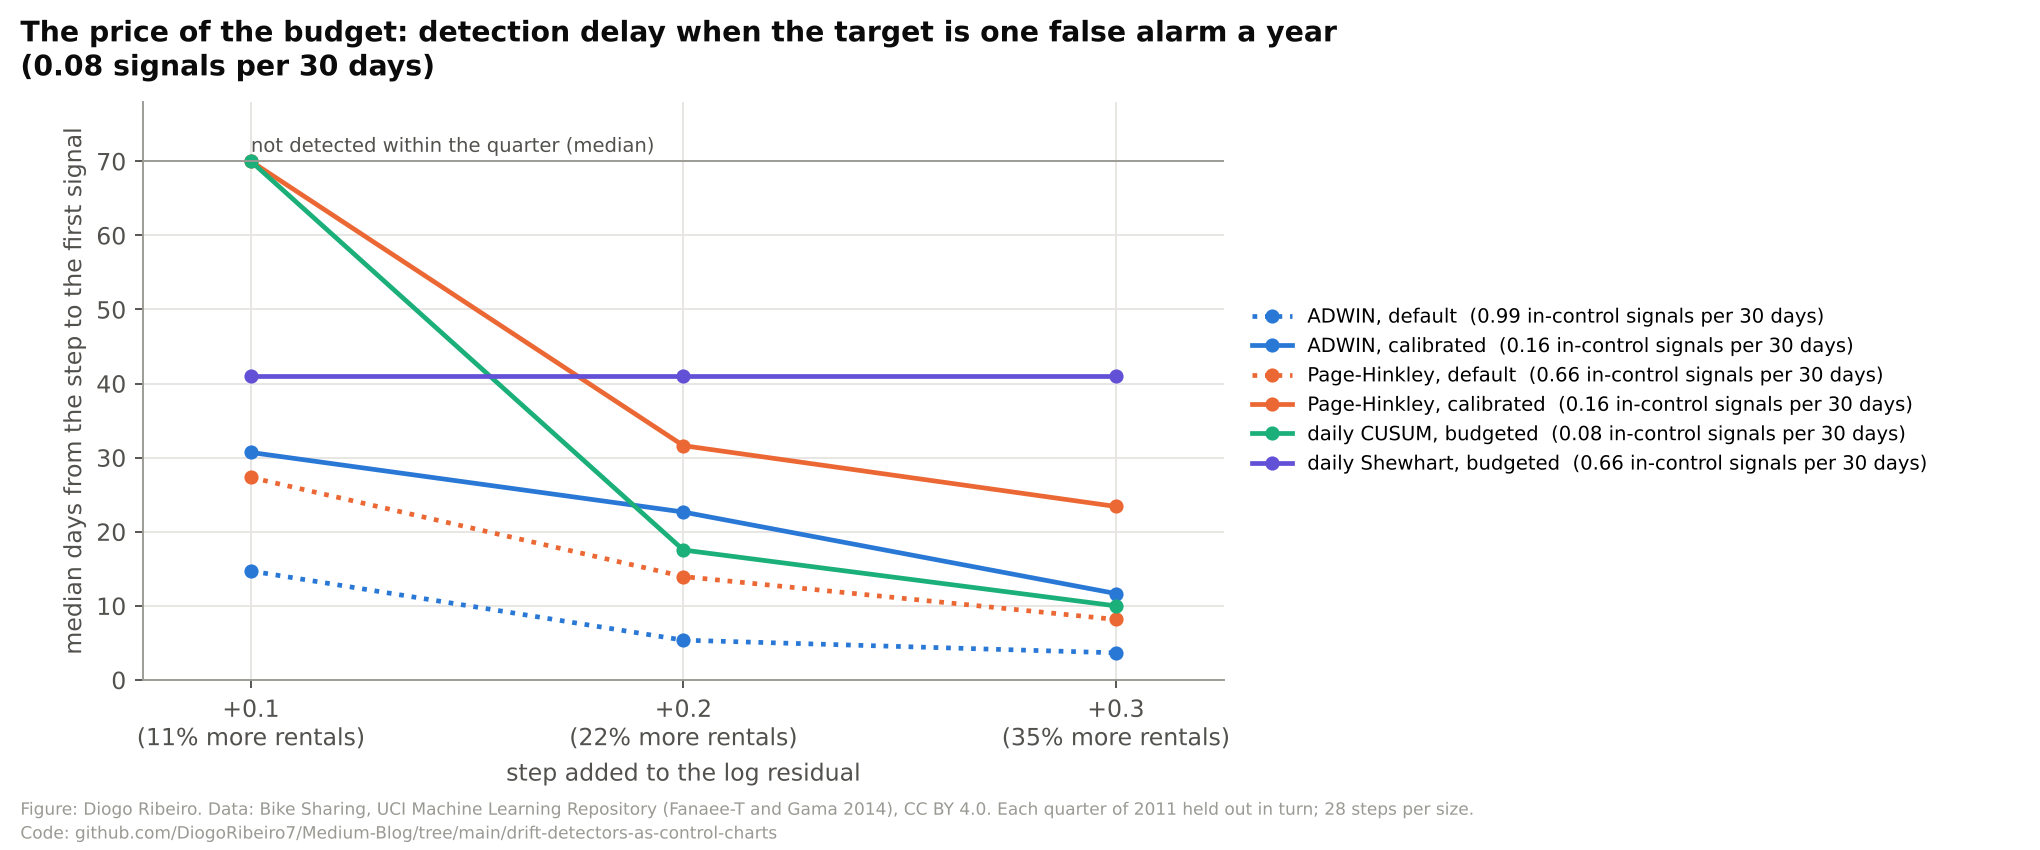
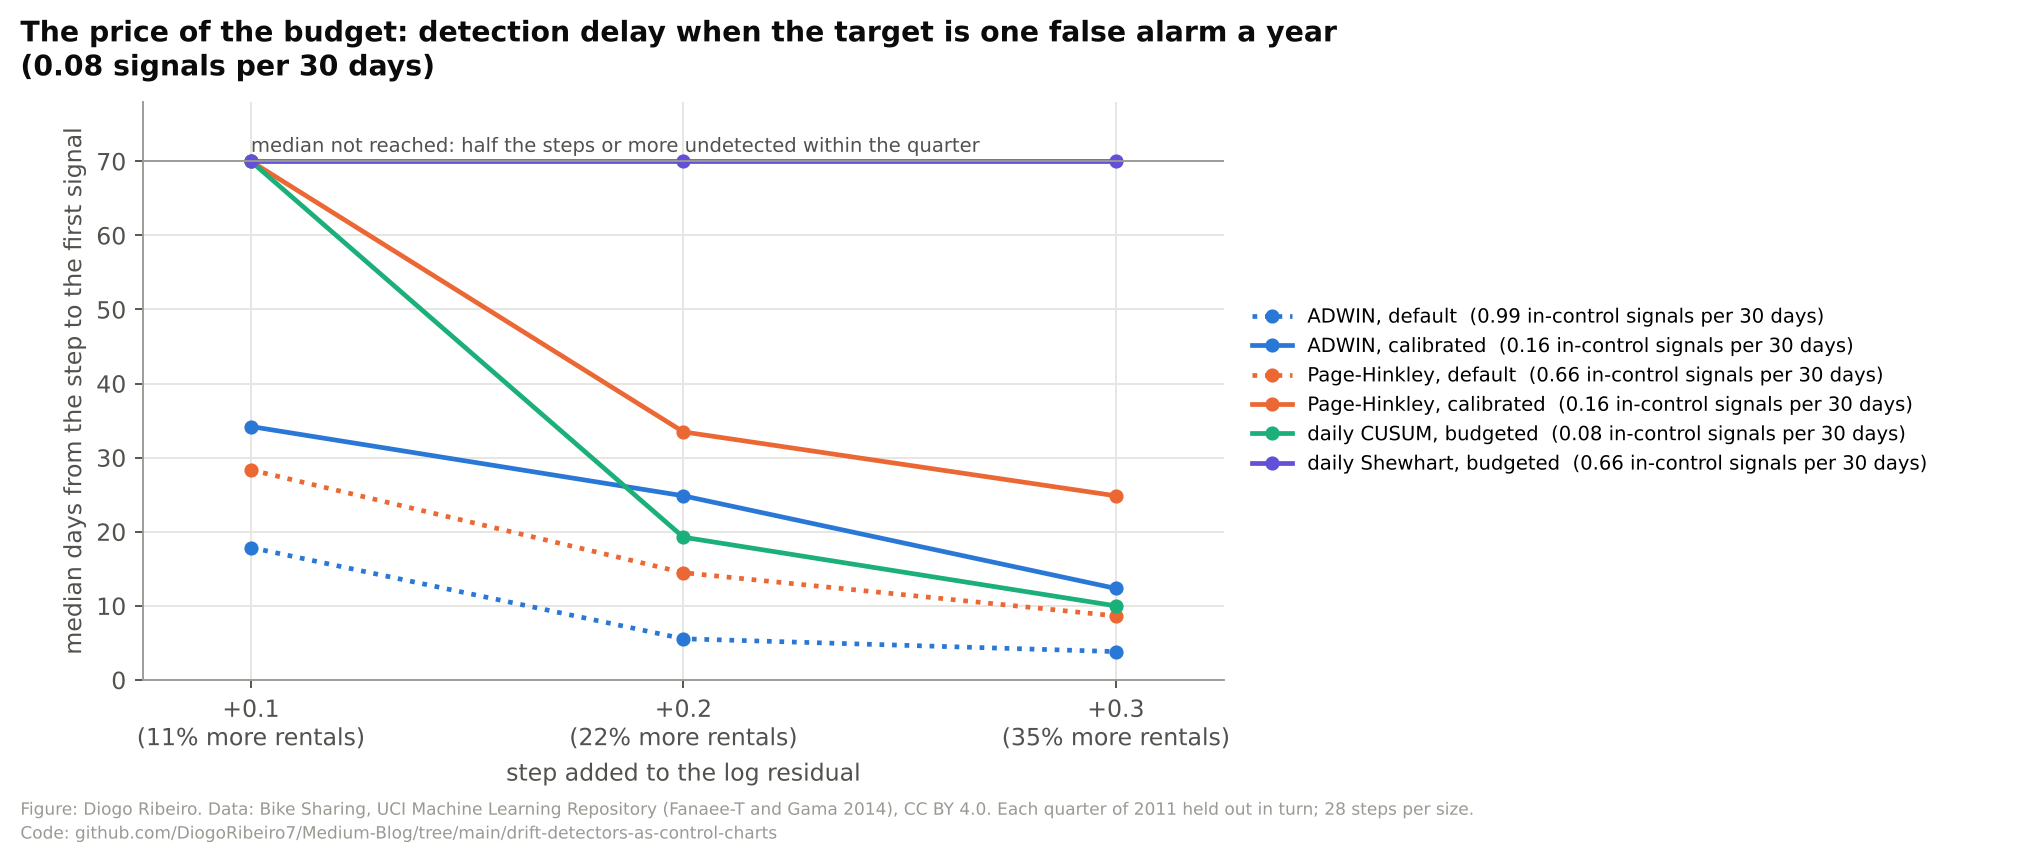
drift-detectors-as-control-charts: monthly inputs under Evidently's KS rule, sides of the first signal, printed reference values

diff --git a/drift-detectors-as-control-charts/drift_numbers.py b/drift-detectors-as-control-charts/drift_numbers.py
@@ -218,6 +218,10 @@ dd = binary.DDM()
 print(f"river DDM: warm_start={dd.warm_start}, warning_threshold={dd.warning_threshold}, "
       f"drift_threshold={dd.drift_threshold}")
 
+print(f"reference points: a 3-sigma Shewhart chart with known parameters has in-control ARL "
+      f"{1 / (2 * stats.norm.sf(3)):.1f}; a two-sided CUSUM with k=0.5 has in-control ARL {dt.cusum_arl(0.5, 4):.0f} "
+      f"at h=4 and {dt.cusum_arl(0.5, 5):.0f} at h=5 (Markov chain, Brook and Evans 1972)")
+
 # Check: river's upper Page-Hinkley signal times equal those of the CUSUM written in drifttools.
 x = 1.0 * RNG["ph_scale"].standard_normal(3000) + np.r_[np.zeros(1500), 0.8 * np.ones(1500)]
 stat = dt.page_hinkley_statistic(x)
@@ -425,6 +429,11 @@ print(f"  daily mean residual, 2011: sd {d11.std(ddof=1):.3f} against {r.std(ddo
       f"lag-1 autocorrelation {acf(d11.values, 1):.3f}; skewness {stats.skew(d11.values):.2f}, excess kurtosis "
       f"{stats.kurtosis(d11.values):.2f}")
 print("  most negative days:", ", ".join(f"{k.date()} {v:+.2f}" for k, v in d11.sort_values().head(6).items()))
+for day in ["2011-01-01", "2011-01-27", "2011-03-10", "2011-03-21", "2011-10-29", "2011-11-24", "2011-12-07",
+            "2011-12-25", "2011-11-27"]:
+    g = y11[y11.dteday == day]
+    print(f"    {day} ({pd.Timestamp(day).day_name()}): {len(g)} hours recorded, light rain or snow or worse "
+          f"(weather category 3-4) in {int((g.weathersit >= 3).sum())}, holiday flag {int(g.holiday.iloc[0])}")
 
 # Inputs: each 2011 day against the 2011 reference, Evidently's default for > 1,000 reference rows.
 flag = {c: [] for c in WEATHER}
@@ -439,15 +448,20 @@ for _, g in y11.groupby((y11.dteday - y11.dteday.min()).dt.days // 7):
     for c in WEATHER:
         wk[c].append(dt.wasserstein_normed(y11[c].values, g[c].values) >= 0.1)
 print("  the same with weeks as the current window: " + ", ".join(f"{c} {np.mean(wk[c]):.3f}" for c in WEATHER))
-mm_w = []
+ks_cols, ref_rows = [], []
 for m_ in range(1, 13):
     a_ = y11[y11.month == m_]
     b_ = y12[y12.month == m_]
-    mm_w.append(np.mean([dt.wasserstein_normed(a_[c].values, b_[c].values) for c in WEATHER]))
-print("  each 2012 month against the same 2011 month, mean normed Wasserstein over the four inputs:",
-      " ".join(f"{v:.2f}" for v in mm_w))
-print(f"  months of 2012 whose inputs pass against the same month of 2011 (mean score < 0.1): "
-      f"{sum(v < 0.1 for v in mm_w)} of 12")
+    ref_rows.append(len(a_))
+    ks_cols.append(sum(stats.ks_2samp(a_[c].values, b_[c].values).pvalue <= 0.05 for c in WEATHER))
+print(f"  each 2012 month against the same 2011 month ({min(ref_rows)}-{max(ref_rows)} reference rows, so "
+      f"Evidently's default is KS at p <= 0.05): columns flagged of 4, January to December: "
+      + " ".join(str(v) for v in ks_cols))
+print(f"  months with dataset drift (at least half the columns flagged): {sum(v >= 2 for v in ks_cols)} of 12")
+tC = y11.groupby("month").temp.mean() * 47 - 8
+tC12 = y12.groupby("month").temp.mean() * 47 - 8
+print(f"  mean temperature in March (dataset scaling -8 to 39 C): 2011 {tC[3]:.1f} C, 2012 {tC12[3]:.1f} C; "
+      f"July 2011 {tC[7]:.1f} C, 2012 {tC12[7]:.1f} C")
 
 # Stream detectors with their defaults on the 2011 hourly residual stream.
 days11 = y11.dteday.nunique()
@@ -518,14 +532,16 @@ def budgeted_design(d_phase1: np.ndarray, consecutive: np.ndarray, rng, B: int =
             "h_p": h_p, "h_np": h_np}
 
 
-def monitor(design, d_prev: float, d_new: np.ndarray, which: str):
-    """Indices of the monitored days that signal, on the standardized one-step residuals of the AR(1)."""
+def monitor(design, d_prev: float, d_new: np.ndarray, which: str, sides: bool = False):
+    """Indices of the monitored days that signal, on the standardized one-step residuals of the AR(1);
+    with sides=True, (index, +1 or -1) pairs."""
     full = np.r_[d_prev, d_new]
     e = (full[1:] - design["mu"]) - design["phi"] * (full[:-1] - design["mu"])
     z = (e - design["em"]) / design["es"]
     if which == "shewhart":
-        return [i for i, v in enumerate(z) if abs(v) > design["k"]]
-    return dt.cusum_alarms(z, 0.5, design["h_np" if which == "cusum_np" else "h_p"])
+        out = [(i, 1 if v > 0 else -1) for i, v in enumerate(z) if abs(v) > design["k"]]
+        return out if sides else [i for i, _ in out]
+    return dt.cusum_alarms(z, 0.5, design["h_np" if which == "cusum_np" else "h_p"], sides=sides)
 
 
 ADWIN_GRID = [2e-3, 2e-4, 2e-5, 2e-6, 2e-8, 2e-10, 2e-12, 2e-15]
@@ -561,7 +577,15 @@ print(f"  Phase I all of 2011 ({des11['m']} one-step residuals of an AR(1) on th
       f"{des11['h_p']:.2f}, nonparametric {des11['h_np']:.2f} (known-parameter value "
       f"{dt.cusum_h_for_arl(0.5, 1 / DAY_BUDGET):.2f})")
 _, _, e11 = whiten(dvals, consec_all)
-print(f"  one-step residuals: skewness {stats.skew(e11):.2f}, excess kurtosis {stats.kurtosis(e11):.2f}")
+print(f"  one-step residuals: skewness {stats.skew(e11):.2f}, excess kurtosis {stats.kurtosis(e11):.2f}; "
+      f"standard error of phi about {math.sqrt((1 - des11['phi'] ** 2) / des11['m']):.3f}")
+print(f"  a two-sided distribution-free threshold (the minimum and maximum of the reference) needs "
+      f"{sb.min_calibration_size(DAY_BUDGET, EPS, rank=2)} in-control days for the same budget")
+for dlt in [0.1, 0.2, 0.3, float(mres12.values[0])]:
+    w_ = (1 - des11["phi"]) * dlt / des11["es"]
+    print(f"  a sustained step of {dlt:.2f} in the daily mean is {w_:.2f} sd of the one-step residual after its first "
+          f"day; the Shewhart chart then signals on a given day with probability "
+          f"{stats.norm.sf(des11['k'] - w_):.3f}; a CUSUM aimed at it would use k = {w_ / 2:.2f}")
 cal11 = {k: calibrate(k, days_list, rng) for k in ["ADWIN", "Page-Hinkley"]}
 print(f"  stream detectors calibrated to the budget on block surrogates of all of 2011: ADWIN delta "
       f"{cal11['ADWIN'][0]:g} (surrogate rate {cal11['ADWIN'][1]:.5f} a day), Page-Hinkley threshold "
@@ -576,6 +600,7 @@ starts = [14, 21, 28, 35, 42, 49, 56]
 METHODS = ["ADWIN, default", "Page-Hinkley, default", "ADWIN, calibrated", "Page-Hinkley, calibrated",
            "Shewhart", "CUSUM"]
 delays = {m: {s: [] for s in shifts} for m in METHODS}
+low_first = {m: {s: [] for s in shifts} for m in METHODS}
 incontrol = {m: [] for m in METHODS}
 qinfo = []
 for q_ in range(4):
@@ -597,25 +622,27 @@ for q_ in range(4):
         return pd.Series(xs).groupby(hq.dteday.values).mean().values
 
     def signals(name, xs):
-        """Signal times in hours from the start of the quarter (daily charts: end of the day)."""
+        """(signal time in hours from the start of the quarter, side) pairs; daily charts signal at the end
+        of the day and report the side (+1 high, -1 low); stream detectors do not report it (0)."""
         if name in makers:
-            return [i + 1 for i in dt.run_detector(makers[name](), xs)]
+            return [(i + 1, 0) for i in dt.run_detector(makers[name](), xs)]
         which = "shewhart" if name == "Shewhart" else "cusum_np"
         hours_end = np.cumsum(pd.Series(xs).groupby(hq.dteday.values).size().values)
-        return [int(hours_end[i]) for i in monitor(des, prev, daily_of(xs), which)]
+        return [(int(hours_end[i]), sd_) for i, sd_ in monitor(des, prev, daily_of(xs), which, sides=True)]
 
     base = hq.r.values
     for name in METHODS:
         sig = signals(name, base)
-        incontrol[name] += [str(pd.Timestamp(hq.dteday.values[min(t, len(base)) - 1]).date()) for t in sig]
+        incontrol[name] += [str(pd.Timestamp(hq.dteday.values[min(t, len(base)) - 1]).date()) for t, _ in sig]
     for s_day in starts:
         t0 = int(np.argmax(hq.dteday.values == qdays[s_day]))
         for dlt in shifts:
             xs = base.copy()
             xs[t0:] += dlt
             for name in METHODS:
-                after_ = [t for t in signals(name, xs) if t > t0]
-                delays[name][dlt].append((after_[0] - t0) / 24 if after_ else math.inf)
+                after_ = [(t, sd_) for t, sd_ in signals(name, xs) if t > t0]
+                delays[name][dlt].append((after_[0][0] - t0) / 24 if after_ else math.inf)
+                low_first[name][dlt].append(bool(after_) and after_[0][1] < 0)
 print("Leave one quarter out: Phase I the other three quarters of 2011 for the daily charts and for the "
       "calibration of the stream detectors; Shewhart k " + ", ".join(f"{q[0]:.3f}" for q in qinfo)
       + "; CUSUM h (nonparametric) " + ", ".join(f"{q[1]:.2f}" for q in qinfo)
@@ -627,21 +654,27 @@ for name in METHODS:
     lst = ", ".join(incontrol[name]) if len(incontrol[name]) <= 12 else f"{len(incontrol[name])} days"
     print(f"    {name}: {len(incontrol[name])} signals, {real_rate[name]:.2f} per 30 days ({lst})")
 print("  injected shifts: a step of delta log units added to the held-out quarter's hourly residuals from day 14, "
-      "21, ..., 56 (28 runs per delta); days from the start of the step to the first signal after it; daily "
-      "charts signal at the end of a day; median [quartiles], 'never' when the quarter ends first")
+      "21, ..., 56 (28 runs per delta); days from the start of the step to the first signal after it, of either "
+      "sign; daily charts signal at the end of a day; median [quartiles], 'never' when more of the runs than "
+      "the quantile reached the end of the quarter without a signal")
 
 
 def qfmt(v):
-    v = np.sort(np.asarray(v, float))
+    v = np.asarray(v, float)
+    big = np.where(np.isinf(v), 1e9, v)
     out = []
     for q in (0.25, 0.5, 0.75):
-        x_ = np.quantile(v, q, method="inverted_cdf")
-        out.append("never" if math.isinf(x_) else f"{x_:.1f}")
+        x_ = float(np.quantile(big, q))
+        out.append("never" if x_ > 1e3 else f"{x_:.1f}")
     return f"{out[1]} [{out[0]}, {out[2]}]"
 
 
 for name in METHODS:
     print(f"    {name}: " + "; ".join(f"delta {dlt}: {qfmt(delays[name][dlt])}" for dlt in shifts))
+    if name in ("Shewhart", "CUSUM"):
+        print("      undetected, and first signals after the step that were low-side (opposite to the step): "
+              + "; ".join(f"delta {dlt}: {int(np.sum(np.isinf(delays[name][dlt])))} and "
+                          f"{int(np.sum(low_first[name][dlt]))} of 28" for dlt in shifts))
 FIG["delays"] = {m: {str(s): [None if math.isinf(x) else x for x in v] for s, v in d.items()}
                  for m, d in delays.items()}
 FIG["rates"] = {m: real_rate[m] for m in METHODS}
@@ -738,7 +771,8 @@ print(f"  p-chart with binomial sigma (the independence DDM assumes): Phase I me
       f"{pchart_ph1} of {ref_days} Phase I days already outside; {pchart} signals while monitoring "
       f"({pchart / yrs2:.0f} a year)")
 des_el = budgeted_design(ph1, np.ones(ref_days - 1, dtype=bool), rng)
-print(f"  between-day design: phi {des_el['phi']:.3f}, one-step sd {des_el['es']:.3f}, Shewhart k {des_el['k']:.3f}, "
+print(f"  between-day design: phi {des_el['phi']:.3f} (standard error about "
+      f"{math.sqrt((1 - des_el['phi'] ** 2) / des_el['m']):.2f}), one-step sd {des_el['es']:.3f}, Shewhart k {des_el['k']:.3f}, "
       f"CUSUM h parametric {des_el['h_p']:.2f}, nonparametric {des_el['h_np']:.2f}")
 el_alarm = {}
 for which in ["shewhart", "cusum_p", "cusum_np"]:

diff --git a/drift-detectors-as-control-charts/figures.py b/drift-detectors-as-control-charts/figures.py
@@ -254,13 +254,13 @@ def fig4():  # price
     for m, (col, ls) in style.items():
         med = []
         for s in shifts:
-            v = np.asarray([math.inf if z is None else z for z in dl[m][str(s)]], float)
-            q = np.quantile(np.sort(v), 0.5, method="inverted_cdf")
-            med.append(never if math.isinf(q) else q)
+            v = np.asarray([1e9 if z is None else z for z in dl[m][str(s)]], float)
+            q = float(np.median(v))
+            med.append(never if q > 1e3 else q)
         ax.plot(shifts, med, color=col, ls=ls, lw=2, marker="o", ms=5,
                 label=f"{names.get(m, m)}  ({rates[m]:.2f} in-control signals per 30 days)")
     ax.axhline(never, color=MUTED, lw=0.8)
-    ax.annotate("not detected within the quarter (median)", (shifts[0], never), xytext=(0, 4),
+    ax.annotate("median not reached: half the steps or more undetected within the quarter", (shifts[0], never), xytext=(0, 4),
                 textcoords="offset points", fontsize=8.3, color=INK2)
     ax.set_xticks(shifts, [f"+{s:g}\n({(math.exp(s) - 1) * 100:.0f}% more rentals)" for s in shifts])
     ax.set_xlabel("step added to the log residual")

diff --git a/drift-detectors-as-control-charts/drifttools.py b/drift-detectors-as-control-charts/drifttools.py
@@ -199,15 +199,15 @@ def guaranteed_cusum_h(x, k: float, arl: float, eps: float, rng: np.random.Gener
     return float(np.quantile(need, 1.0 - eps))
 
 
-def cusum_alarms(z, k: float, h: float) -> list[int]:
+def cusum_alarms(z, k: float, h: float, sides: bool = False) -> list:
     """Indices at which a two-sided CUSUM on standardized z signals; both sums restart at zero after a
-    signal."""
+    signal. With sides=True, (index, +1 or -1) pairs, -1 when only the lower sum crossed."""
     up = dn = 0.0
     out = []
     for i, v in enumerate(z):
         up = max(0.0, up + v - k)
         dn = max(0.0, dn - v - k)
         if up > h or dn > h:
-            out.append(i)
+            out.append((i, 1 if up > h else -1) if sides else i)
             up = dn = 0.0
     return out
